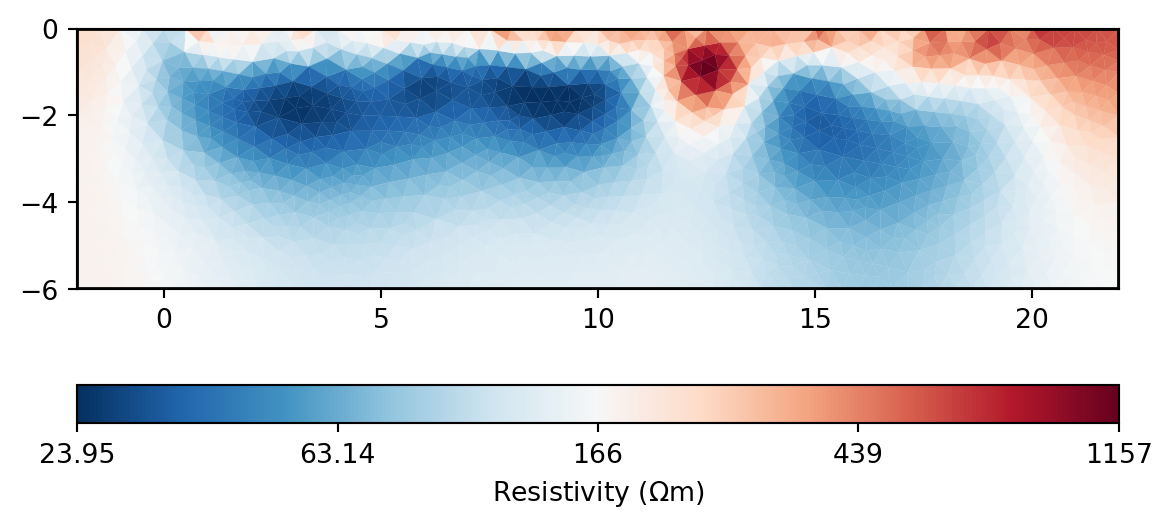
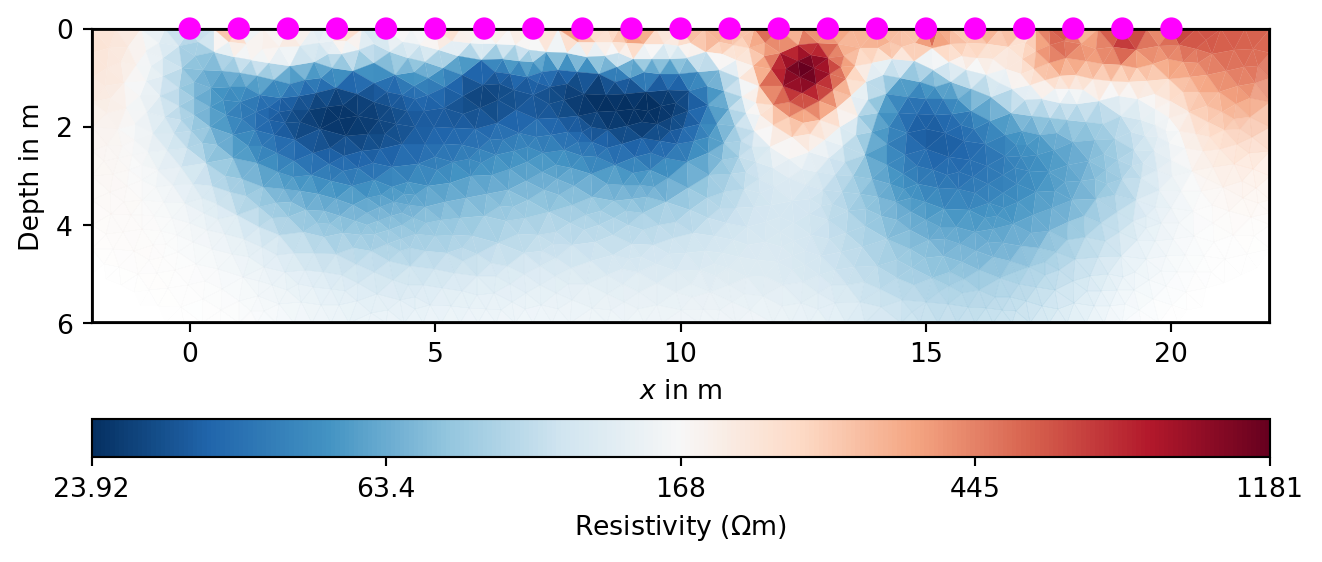
WIP

diff --git a/docs/posts/DC_in_the_park/pygimli_inversion.html b/docs/posts/DC_in_the_park/pygimli_inversion.html
@@ -239,29 +239,26 @@ window.Quarto = {
 <p>The aim of the inversion is to reconstruct the spatial distribution of resistivity in the subsurface. This is based on the measured data, usually ohmic resistances <span class="math inline">\(R(L)\)</span> in <span class="math inline">\(\Omega\)</span> or apparent resistivities <span class="math inline">\(\rho_s(L)\)</span> in <span class="math inline">\(\Omega\cdot m\)</span>. All measured values depend on the location and the geoelectric electrode configuration (denoted here by <span class="math inline">\(L\)</span>).</p>
 <section id="installation" class="level3">
 <h3 class="anchored" data-anchor-id="installation">Installation</h3>
-<p>The <code>pyGIMLi</code> is a Python library. We assume that a Python environment is already installed. The easiest option is <a href="https://www.anaconda.com/products/individual"><em>anaconda</em></a>.</p>
+<p>The <code>pyGIMLi</code> is a Python library. We assume that a Python environment is already installed. The easiest option is <a href="https://www.anaconda.com/docs/getting-started/miniconda/main"><em>miniconda</em></a>.</p>
 <p>First, <code>pyGIMLi</code> must be installed so that it can be accessed under Python. This is done with <code>conda</code>:</p>
-<pre class="shell"><code>conda install -c gimli -c conda-forge pygimli=1.3.0</code></pre>
+<pre class="shell"><code>pip install pygimli</code></pre>
 </section>
 <section id="preparation" class="level3">
 <h3 class="anchored" data-anchor-id="preparation">Preparation</h3>
 <p>We import the two libraries <code>pygimli</code> and <code>numpy</code>.</p>
-<div class="cell" data-execution_count="1">
+<div id="9d6903e4" class="cell" data-execution_count="1">
 <div class="code-copy-outer-scaffold"><div class="sourceCode cell-code" id="cb2"><pre class="sourceCode python code-with-copy"><code class="sourceCode python"><span id="cb2-1"><a href="#cb2-1" aria-hidden="true" tabindex="-1"></a><span class="op">%</span>matplotlib inline</span></code></pre></div><button title="Copy to Clipboard" class="code-copy-button"><i class="bi"></i></button></div>
 </div>
-<div class="cell" data-execution_count="2">
+<div id="dbbd1c9c" class="cell" data-execution_count="2">
 <div class="code-copy-outer-scaffold"><div class="sourceCode cell-code" id="cb3"><pre class="sourceCode python code-with-copy"><code class="sourceCode python"><span id="cb3-1"><a href="#cb3-1" aria-hidden="true" tabindex="-1"></a><span class="im">import</span> pygimli <span class="im">as</span> pg</span>
 <span id="cb3-2"><a href="#cb3-2" aria-hidden="true" tabindex="-1"></a><span class="im">import</span> numpy <span class="im">as</span> np</span>
 <span id="cb3-3"><a href="#cb3-3" aria-hidden="true" tabindex="-1"></a><span class="im">from</span> pygimli.physics <span class="im">import</span> ert</span>
 <span id="cb3-4"><a href="#cb3-4" aria-hidden="true" tabindex="-1"></a><span class="im">from</span> pygimli.physics.ert <span class="im">import</span> ERTManager</span></code></pre></div><button title="Copy to Clipboard" class="code-copy-button"><i class="bi"></i></button></div>
 </div>
-<div class="cell" data-execution_count="3">
+<div id="6ae23a7f" class="cell" data-execution_count="3">
 <div class="code-copy-outer-scaffold"><div class="sourceCode cell-code" id="cb4"><pre class="sourceCode python code-with-copy"><code class="sourceCode python"><span id="cb4-1"><a href="#cb4-1" aria-hidden="true" tabindex="-1"></a><span class="bu">print</span>(pg.__version__)</span></code></pre></div><button title="Copy to Clipboard" class="code-copy-button"><i class="bi"></i></button></div>
 <div class="cell-output cell-output-stdout">
-<pre><code>1.2.6</code></pre>
-</div>
-<div class="cell-output cell-output-stdout">
-<pre><code></code></pre>
+<pre><code>1.6.0</code></pre>
 </div>
 </div>
 </section>
@@ -300,28 +297,28 @@ window.Quarto = {
 <p>The profile measurement was carried out with the <em>Wenner</em>, and <em>Dipole-Dipole</em> configurations using 21 electrodes.</p>
 <p>The dipole-dipole data set consists of 80 individual measurements, and the Wenner data set consists of 63 individual measurements. All data is stored in the file <code>parkall.mea</code>.</p>
 <p>The Python object <code>wenner</code> contains all measured data:</p>
-<div class="cell" data-execution_count="4">
-<div class="code-copy-outer-scaffold"><div class="sourceCode cell-code" id="cb8"><pre class="sourceCode python code-with-copy"><code class="sourceCode python"><span id="cb8-1"><a href="#cb8-1" aria-hidden="true" tabindex="-1"></a>wenner <span class="op">=</span> pg.load(<span class="st">"parkall.mea"</span>)</span>
-<span id="cb8-2"><a href="#cb8-2" aria-hidden="true" tabindex="-1"></a><span class="bu">print</span>(wenner)</span></code></pre></div><button title="Copy to Clipboard" class="code-copy-button"><i class="bi"></i></button></div>
+<div id="a716a93d" class="cell" data-execution_count="4">
+<div class="code-copy-outer-scaffold"><div class="sourceCode cell-code" id="cb7"><pre class="sourceCode python code-with-copy"><code class="sourceCode python"><span id="cb7-1"><a href="#cb7-1" aria-hidden="true" tabindex="-1"></a>wenner <span class="op">=</span> pg.load(<span class="st">"parkall.mea"</span>)</span>
+<span id="cb7-2"><a href="#cb7-2" aria-hidden="true" tabindex="-1"></a><span class="bu">print</span>(wenner)</span></code></pre></div><button title="Copy to Clipboard" class="code-copy-button"><i class="bi"></i></button></div>
 <div class="cell-output cell-output-stdout">
 <pre><code>Data: Sensors: 21 data: 143, nonzero entries: ['a', 'b', 'm', 'n', 'rhoa', 'valid']</code></pre>
 </div>
 </div>
-<div class="cell" data-execution_count="5">
-<div class="code-copy-outer-scaffold"><div class="sourceCode cell-code" id="cb10"><pre class="sourceCode python code-with-copy"><code class="sourceCode python"><span id="cb10-1"><a href="#cb10-1" aria-hidden="true" tabindex="-1"></a>wenner[<span class="st">'k'</span>] <span class="op">=</span> ert.createGeometricFactors(wenner, numerical<span class="op">=</span><span class="va">True</span>)</span></code></pre></div><button title="Copy to Clipboard" class="code-copy-button"><i class="bi"></i></button></div>
+<div id="73c4faa7" class="cell" data-execution_count="5">
+<div class="code-copy-outer-scaffold"><div class="sourceCode cell-code" id="cb9"><pre class="sourceCode python code-with-copy"><code class="sourceCode python"><span id="cb9-1"><a href="#cb9-1" aria-hidden="true" tabindex="-1"></a>wenner[<span class="st">'k'</span>] <span class="op">=</span> ert.createGeometricFactors(wenner, numerical<span class="op">=</span><span class="va">True</span>)</span></code></pre></div><button title="Copy to Clipboard" class="code-copy-button"><i class="bi"></i></button></div>
 </div>
 <p>In the <code>pyGIMLi</code> method <code>ERTManager()</code> all functions for the inversion of geoelectric data (<em>Electrical Resistivity Tomography</em>, ERT) are implemented.</p>
 <p>The object <code>ertwenner</code> will hold, among others, the model response and the model parameters.</p>
-<div class="cell" data-execution_count="6">
-<div class="code-copy-outer-scaffold"><div class="sourceCode cell-code" id="cb11"><pre class="sourceCode python code-with-copy"><code class="sourceCode python"><span id="cb11-1"><a href="#cb11-1" aria-hidden="true" tabindex="-1"></a>ertwenner <span class="op">=</span> ERTManager()</span></code></pre></div><button title="Copy to Clipboard" class="code-copy-button"><i class="bi"></i></button></div>
+<div id="15afbc1a" class="cell" data-execution_count="6">
+<div class="code-copy-outer-scaffold"><div class="sourceCode cell-code" id="cb10"><pre class="sourceCode python code-with-copy"><code class="sourceCode python"><span id="cb10-1"><a href="#cb10-1" aria-hidden="true" tabindex="-1"></a>ertwenner <span class="op">=</span> ERTManager()</span></code></pre></div><button title="Copy to Clipboard" class="code-copy-button"><i class="bi"></i></button></div>
 </div>
 <p>Since our data set does not contain measurement errors, we estimate plausible absolute and relative data errors. Absolute errors are given in <span class="math inline">\(\Omega\cdot m\)</span>.</p>
-<div class="cell" data-execution_count="7">
-<div class="code-copy-outer-scaffold"><div class="sourceCode cell-code" id="cb12"><pre class="sourceCode python code-with-copy"><code class="sourceCode python"><span id="cb12-1"><a href="#cb12-1" aria-hidden="true" tabindex="-1"></a>wenner[<span class="st">'err'</span>] <span class="op">=</span> ertwenner.estimateError(wenner, absoluteError<span class="op">=</span><span class="fl">0.1</span>, relativeError<span class="op">=</span><span class="fl">0.03</span>)</span></code></pre></div><button title="Copy to Clipboard" class="code-copy-button"><i class="bi"></i></button></div>
+<div id="ead0f194" class="cell" data-execution_count="7">
+<div class="code-copy-outer-scaffold"><div class="sourceCode cell-code" id="cb11"><pre class="sourceCode python code-with-copy"><code class="sourceCode python"><span id="cb11-1"><a href="#cb11-1" aria-hidden="true" tabindex="-1"></a>wenner[<span class="st">'err'</span>] <span class="op">=</span> ertwenner.estimateError(wenner, absoluteError<span class="op">=</span><span class="fl">0.1</span>, relativeError<span class="op">=</span><span class="fl">0.03</span>)</span></code></pre></div><button title="Copy to Clipboard" class="code-copy-button"><i class="bi"></i></button></div>
 </div>
 <p>The following figure shows <em>pseudosections</em> of the <strong>apparent resistivity</strong> <span class="math inline">\(\rho_s\)</span>. The trapezoidal shape comes from the arbitrary choice of the horizontal reference point in the profile plot for the Wenner or dipole-dipole arrangement. The ordinates in the following two figures represent the electrode spacing for Wenner (WE) and the separation between current pole and voltage dipoles for the dipole-dipole (DD) array. <strong>Note: The vertical axis is not a depth axis!</strong></p>
-<div class="cell" data-execution_count="8">
-<div class="code-copy-outer-scaffold"><div class="sourceCode cell-code" id="cb13"><pre class="sourceCode python code-with-copy"><code class="sourceCode python"><span id="cb13-1"><a href="#cb13-1" aria-hidden="true" tabindex="-1"></a>ertwenner.showData(wenner, cMap<span class="op">=</span><span class="st">"RdBu_r"</span>)<span class="op">;</span></span></code></pre></div><button title="Copy to Clipboard" class="code-copy-button"><i class="bi"></i></button></div>
+<div id="5a02a071" class="cell" data-execution_count="8">
+<div class="code-copy-outer-scaffold"><div class="sourceCode cell-code" id="cb12"><pre class="sourceCode python code-with-copy"><code class="sourceCode python"><span id="cb12-1"><a href="#cb12-1" aria-hidden="true" tabindex="-1"></a>ertwenner.showData(wenner, cMap<span class="op">=</span><span class="st">"RdBu_r"</span>)<span class="op">;</span></span></code></pre></div><button title="Copy to Clipboard" class="code-copy-button"><i class="bi"></i></button></div>
 <div class="cell-output cell-output-display">
 <div>
 <figure class="figure">
@@ -338,39 +335,39 @@ window.Quarto = {
 <p>The <code>lam</code> parameter is assigned the value of the selected <em>regularization parameter</em> <span class="math inline">\(\lambda\)</span>.</p>
 <p>If the value of <span class="math inline">\(\lambda\)</span> is too low, a singularity of the least squares problem, if present, is expressed by strongly fluctuating values in the resistivity distribution in the subsurface. In the opposite case, if <span class="math inline">\(\lambda\)</span> is too large, the resistivity distribution becomes very smooth.</p>
 <p>Here we can try out what influence the regularization parameter has on the solution of our problem.</p>
-<div class="cell" data-execution_count="9">
-<div class="code-copy-outer-scaffold"><div class="sourceCode cell-code" id="cb14"><pre class="sourceCode python code-with-copy"><code class="sourceCode python"><span id="cb14-1"><a href="#cb14-1" aria-hidden="true" tabindex="-1"></a>lam <span class="op">=</span> <span class="dv">10</span></span></code></pre></div><button title="Copy to Clipboard" class="code-copy-button"><i class="bi"></i></button></div>
+<div id="bc2462df" class="cell" data-execution_count="9">
+<div class="code-copy-outer-scaffold"><div class="sourceCode cell-code" id="cb13"><pre class="sourceCode python code-with-copy"><code class="sourceCode python"><span id="cb13-1"><a href="#cb13-1" aria-hidden="true" tabindex="-1"></a>lam <span class="op">=</span> <span class="dv">10</span></span></code></pre></div><button title="Copy to Clipboard" class="code-copy-button"><i class="bi"></i></button></div>
 </div>
-<div class="cell" data-execution_count="10">
-<div class="code-copy-outer-scaffold"><div class="sourceCode cell-code" id="cb15"><pre class="sourceCode python code-with-copy"><code class="sourceCode python"><span id="cb15-1"><a href="#cb15-1" aria-hidden="true" tabindex="-1"></a>modwenner <span class="op">=</span> ertwenner.invert(wenner, lam<span class="op">=</span>lam, paraMaxCellSize<span class="op">=</span><span class="fl">0.1</span>, paraDepth<span class="op">=</span><span class="dv">6</span>, verbose<span class="op">=</span><span class="va">False</span>)<span class="op">;</span></span></code></pre></div><button title="Copy to Clipboard" class="code-copy-button"><i class="bi"></i></button></div>
+<div id="e2963a9c" class="cell" data-execution_count="10">
+<div class="code-copy-outer-scaffold"><div class="sourceCode cell-code" id="cb14"><pre class="sourceCode python code-with-copy"><code class="sourceCode python"><span id="cb14-1"><a href="#cb14-1" aria-hidden="true" tabindex="-1"></a>modwenner <span class="op">=</span> ertwenner.invert(wenner, lam<span class="op">=</span>lam, paraMaxCellSize<span class="op">=</span><span class="fl">0.1</span>, paraDepth<span class="op">=</span><span class="dv">6</span>, verbose<span class="op">=</span><span class="va">False</span>)<span class="op">;</span></span></code></pre></div><button title="Copy to Clipboard" class="code-copy-button"><i class="bi"></i></button></div>
 </div>
 <p>The following figures illustrate the relationship between the model parameters (<span class="math inline">\(\rho(\mathbf r)\)</span>) and the measured apparent resistivity (<code>Data</code>) and the model response (<code>Response</code>).</p>
-<div class="cell" data-execution_count="11">
-<div class="code-copy-outer-scaffold"><div class="sourceCode cell-code" id="cb16"><pre class="sourceCode python code-with-copy"><code class="sourceCode python"><span id="cb16-1"><a href="#cb16-1" aria-hidden="true" tabindex="-1"></a>ertwenner.showResultAndFit(cMap<span class="op">=</span><span class="st">"RdBu_r"</span>)<span class="op">;</span></span></code></pre></div><button title="Copy to Clipboard" class="code-copy-button"><i class="bi"></i></button></div>
+<div id="0d9ddc61" class="cell" data-execution_count="11">
+<div class="code-copy-outer-scaffold"><div class="sourceCode cell-code" id="cb15"><pre class="sourceCode python code-with-copy"><code class="sourceCode python"><span id="cb15-1"><a href="#cb15-1" aria-hidden="true" tabindex="-1"></a>ertwenner.showResultAndFit(cMap<span class="op">=</span><span class="st">"RdBu_r"</span>)<span class="op">;</span></span></code></pre></div><button title="Copy to Clipboard" class="code-copy-button"><i class="bi"></i></button></div>
 <div class="cell-output cell-output-display">
 <div>
 <figure class="figure">
-<p><img src="pygimli_inversion_files/figure-html/cell-12-output-1.png" width="659" height="469" class="figure-img"></p>
+<p><img src="pygimli_inversion_files/figure-html/cell-12-output-1.png" width="1042" height="565" class="figure-img"></p>
 </figure>
 </div>
 </div>
 </div>
 <p>The Goldbach flows in a concrete pipe at about profile meter 12.</p>
-<div class="cell" data-execution_count="12">
-<div class="code-copy-outer-scaffold"><div class="sourceCode cell-code" id="cb17"><pre class="sourceCode python code-with-copy"><code class="sourceCode python"><span id="cb17-1"><a href="#cb17-1" aria-hidden="true" tabindex="-1"></a>ertwenner.showModel(modwenner, cMap<span class="op">=</span><span class="st">"RdBu_r"</span>)<span class="op">;</span></span></code></pre></div><button title="Copy to Clipboard" class="code-copy-button"><i class="bi"></i></button></div>
+<div id="271af637" class="cell" data-execution_count="12">
+<div class="code-copy-outer-scaffold"><div class="sourceCode cell-code" id="cb16"><pre class="sourceCode python code-with-copy"><code class="sourceCode python"><span id="cb16-1"><a href="#cb16-1" aria-hidden="true" tabindex="-1"></a>ertwenner.showModel(modwenner, cMap<span class="op">=</span><span class="st">"RdBu_r"</span>)<span class="op">;</span></span></code></pre></div><button title="Copy to Clipboard" class="code-copy-button"><i class="bi"></i></button></div>
 <div class="cell-output cell-output-display">
 <div>
 <figure class="figure">
-<p><img src="pygimli_inversion_files/figure-html/cell-13-output-1.png" width="586" height="264" class="figure-img"></p>
+<p><img src="pygimli_inversion_files/figure-html/cell-13-output-1.png" width="661" height="281" class="figure-img"></p>
 </figure>
 </div>
 </div>
 </div>
 <p>Of interest is the goodness of fit, which we refer to as <em>misfit</em>. This is the relative error between data and model response. A graphical representation of this error is informative:</p>
-<div class="cell" data-execution_count="13">
-<div class="code-copy-outer-scaffold"><div class="sourceCode cell-code" id="cb18"><pre class="sourceCode python code-with-copy"><code class="sourceCode python"><span id="cb18-1"><a href="#cb18-1" aria-hidden="true" tabindex="-1"></a>misfitwe <span class="op">=</span> ertwenner.inv.response <span class="op">/</span> wenner[<span class="st">'rhoa'</span>] <span class="op">*</span> <span class="dv">100</span> <span class="op">-</span> <span class="dv">100</span></span>
-<span id="cb18-2"><a href="#cb18-2" aria-hidden="true" tabindex="-1"></a>me <span class="op">=</span> np.<span class="bu">max</span>(np.<span class="bu">abs</span>(misfitwe))</span>
-<span id="cb18-3"><a href="#cb18-3" aria-hidden="true" tabindex="-1"></a>pg.show(wenner, misfitwe, cMap<span class="op">=</span><span class="st">"RdBu_r"</span>, cMin<span class="op">=-</span>me, cMax<span class="op">=</span>me, label<span class="op">=</span><span class="st">"misfit (%)"</span>)<span class="op">;</span></span></code></pre></div><button title="Copy to Clipboard" class="code-copy-button"><i class="bi"></i></button></div>
+<div id="c764c1e9" class="cell" data-execution_count="13">
+<div class="code-copy-outer-scaffold"><div class="sourceCode cell-code" id="cb17"><pre class="sourceCode python code-with-copy"><code class="sourceCode python"><span id="cb17-1"><a href="#cb17-1" aria-hidden="true" tabindex="-1"></a>misfitwe <span class="op">=</span> ertwenner.inv.response <span class="op">/</span> wenner[<span class="st">'rhoa'</span>] <span class="op">*</span> <span class="dv">100</span> <span class="op">-</span> <span class="dv">100</span></span>
+<span id="cb17-2"><a href="#cb17-2" aria-hidden="true" tabindex="-1"></a>me <span class="op">=</span> np.<span class="bu">max</span>(np.<span class="bu">abs</span>(misfitwe))</span>
+<span id="cb17-3"><a href="#cb17-3" aria-hidden="true" tabindex="-1"></a>pg.show(wenner, misfitwe, cMap<span class="op">=</span><span class="st">"RdBu_r"</span>, cMin<span class="op">=-</span>me, cMax<span class="op">=</span>me, label<span class="op">=</span><span class="st">"misfit (%)"</span>)<span class="op">;</span></span></code></pre></div><button title="Copy to Clipboard" class="code-copy-button"><i class="bi"></i></button></div>
 <div class="cell-output cell-output-display">
 <div>
 <figure class="figure">
@@ -380,10 +377,10 @@ window.Quarto = {
 </div>
 </div>
 <p>The global misfit is described with the <span class="math inline">\(\chi^2\)</span>-statistic and amounts to</p>
-<div class="cell" data-execution_count="14">
-<div class="code-copy-outer-scaffold"><div class="sourceCode cell-code" id="cb19"><pre class="sourceCode python code-with-copy"><code class="sourceCode python"><span id="cb19-1"><a href="#cb19-1" aria-hidden="true" tabindex="-1"></a>ertwenner.inv.chi2()</span></code></pre></div><button title="Copy to Clipboard" class="code-copy-button"><i class="bi"></i></button></div>
-<div class="cell-output cell-output-display" data-execution_count="172">
-<pre><code>0.8469349648613855</code></pre>
+<div id="c61e7a57" class="cell" data-execution_count="14">
+<div class="code-copy-outer-scaffold"><div class="sourceCode cell-code" id="cb18"><pre class="sourceCode python code-with-copy"><code class="sourceCode python"><span id="cb18-1"><a href="#cb18-1" aria-hidden="true" tabindex="-1"></a>ertwenner.inv.chi2()</span></code></pre></div><button title="Copy to Clipboard" class="code-copy-button"><i class="bi"></i></button></div>
+<div class="cell-output cell-output-display" data-execution_count="14">
+<pre><code>0.7713143921190786</code></pre>
 </div>
 </div>
 </section>

diff --git a/docs/index.html b/docs/index.html
@@ -314,7 +314,7 @@ Ralph-Uwe Börner
 </a>
 </div>
 </div>
-<div class="quarto-post image-right" data-index="3" data-categories="Y29kZSUyQ3B5dGhvbiUyQ2dlb3BoeXNpY3M=" data-listing-date-sort="1669244400000" data-listing-file-modified-sort="1781244809186" data-listing-date-modified-sort="NaN" data-listing-reading-time-sort="6" data-listing-word-count-sort="1030">
+<div class="quarto-post image-right" data-index="3" data-categories="Y29kZSUyQ3B5dGhvbiUyQ2dlb3BoeXNpY3M=" data-listing-date-sort="1669244400000" data-listing-file-modified-sort="1781245717210" data-listing-date-modified-sort="NaN" data-listing-reading-time-sort="6" data-listing-word-count-sort="1030">
 <div class="thumbnail"><a href="./posts/DC_in_the_park/pygimli_inversion.html" class="no-external">
 
 <p class="card-img-top"><img loading='lazy' src="posts/DC_in_the_park/pygimli_inversion_files/figure-html/cell-9-output-1.png"  class="thumbnail-image card-img"/></p>
@@ -414,7 +414,7 @@ Ralph-Uwe Börner
 </a>
 </div>
 </div>
-<div class="quarto-post image-right" data-index="6" data-categories="cXVhcnRv" data-listing-date-sort="1664488800000" data-listing-file-modified-sort="1781245126889" data-listing-date-modified-sort="NaN" data-listing-reading-time-sort="1" data-listing-word-count-sort="81">
+<div class="quarto-post image-right" data-index="6" data-categories="cXVhcnRv" data-listing-date-sort="1664488800000" data-listing-file-modified-sort="1781245577251" data-listing-date-modified-sort="NaN" data-listing-reading-time-sort="1" data-listing-word-count-sort="75">
 <div class="thumbnail"><a href="./posts/welcome/index.html" class="no-external">
 
 <img loading="lazy" src="./posts/welcome/quarto.png" class="thumbnail-image">

diff --git a/docs/about.html b/docs/about.html
@@ -138,10 +138,6 @@ ul.task-list li input[type="checkbox"] {
 <div class="quarto-title-meta">
   </div>
 </header> <div class="about-links">
-  <a href="https://twitter.com/ruboerner" class="about-link" rel="" target="">
-    <i class="bi bi-twitter"></i>
-     <span class="about-link-text">Twitter</span>
-  </a>
   <a href="https://www.linkedin.com/in/ralph-uwe-b%C3%B6rner-ab36472b" class="about-link" rel="" target="">
     <i class="bi bi-linkedin"></i>
      <span class="about-link-text">LinkedIn</span>
@@ -168,7 +164,7 @@ My research interests are:</p>
 <li>Potential theory and its applications in geophysics</li>
 <li>Numerical simulation of Maxwell’s equations</li>
 <li>Finite Elements</li>
-<li>MATLAB and Julia</li>
+<li>Python and Julia</li>
 </ul>
 
 

diff --git a/docs/posts/welcome/index.html b/docs/posts/welcome/index.html
@@ -174,7 +174,6 @@ ul.task-list li input[type="checkbox"] {
 <section id="why-quarto" class="level2">
 <h2 class="anchored" data-anchor-id="why-quarto">Why Quarto?</h2>
 <p>Recently, I discovered <a href="http://quarto.org">Quarto</a>, which offers a functionality that I was missing in other tools.</p>
-<!--  -->
 </section>
 <section id="what-is-quarto" class="level2">
 <h2 class="anchored" data-anchor-id="what-is-quarto">What is Quarto?</h2>
@@ -592,5 +591,4 @@ ul.task-list li input[type="checkbox"] {
 
 
 
-<script src="https://platform.twitter.com/widgets.js"></script>
 </body></html>
